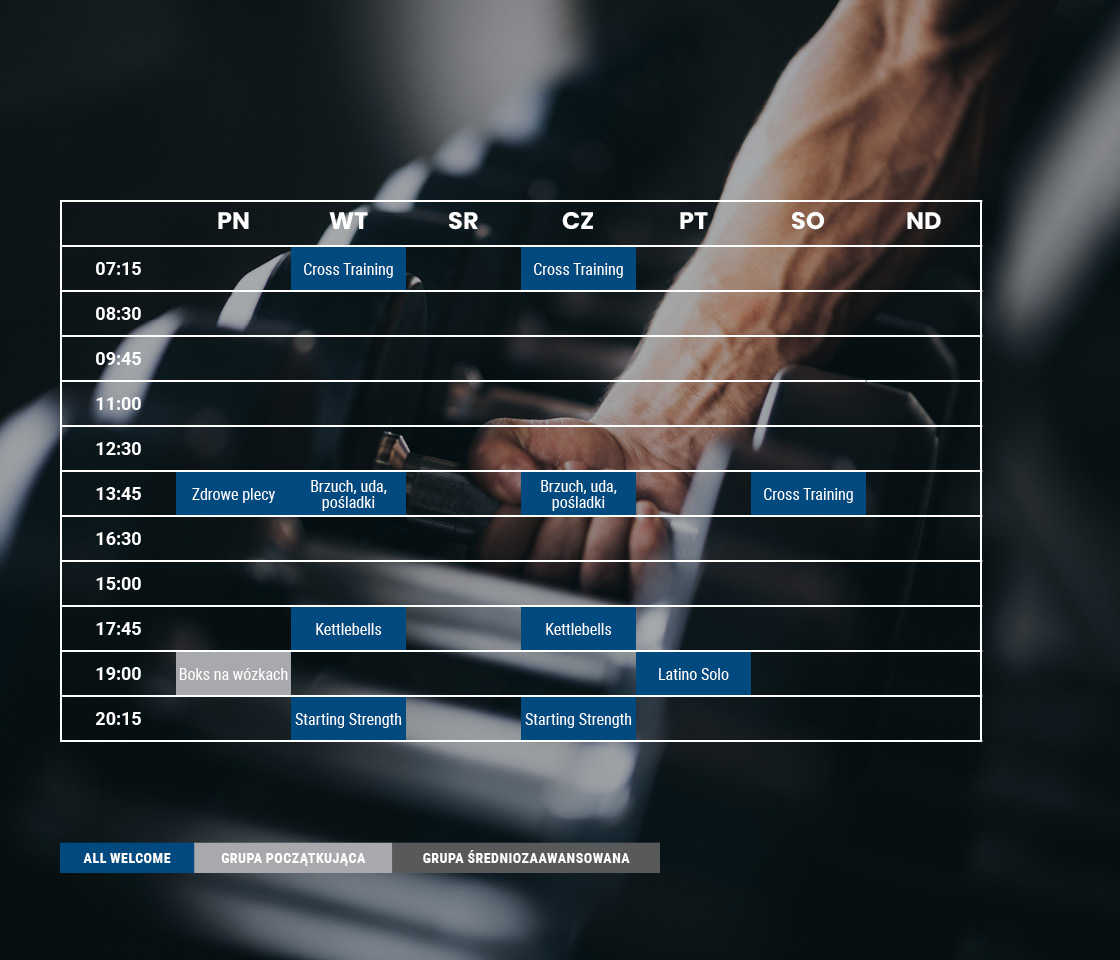
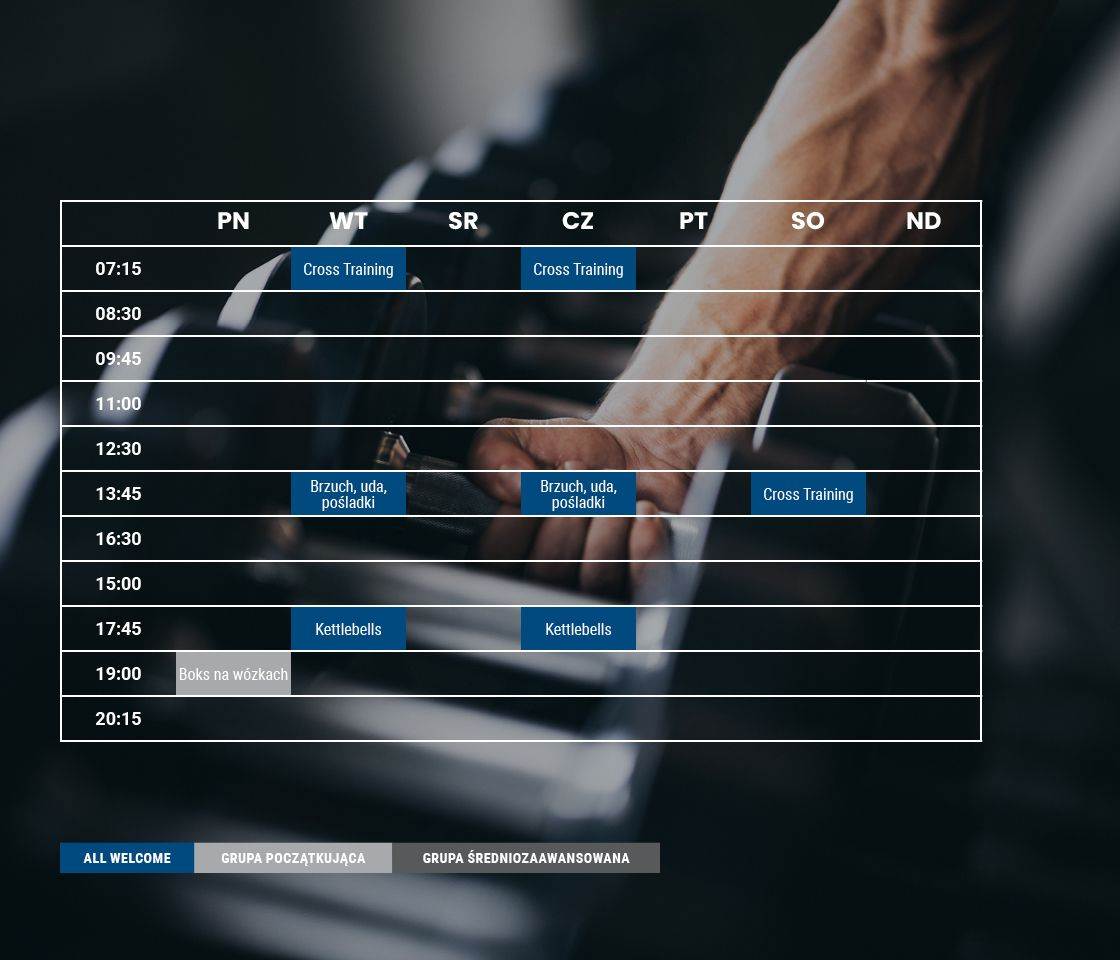
added

diff --git a/src/mixins/items.ts b/src/mixins/items.ts
@@ -439,20 +439,20 @@ export const teamItems: Array<Item> = [
   //     ○ cheerleaders`,
   //     src: "czekaj.jpg",
   //   },
-  {
-    name: "team",
-    title: "Piotr Burzykowski",
-    description: `Tłumacz, trener, terapeuta. 
-    
-    Od najmłodszych lat podróżuję po świecie w poszukiwaniu wiedzy, doświadczeń i nowych smaków. Wierzę, że najszybszym sposobem na poprawę jakości życia każdego człowieka jest zwiększenie jego siły. Specjalizuję się w treningu według metody „Starting Strength”.
-    
-    Po godzinach zajmuję się urban exploration, filozofią, stolarstwem.
-    
-    Prowadzone zajęcia:
-    ○ trening siłowy ze sztangą (Starting Strength)
-    ○ treningi personalne`,
-    src: "piotr.jpg",
-  },
+  // {
+  //   name: "team",
+  //   title: "Piotr Burzykowski",
+  //   description: `Tłumacz, trener, terapeuta.
+
+  //   Od najmłodszych lat podróżuję po świecie w poszukiwaniu wiedzy, doświadczeń i nowych smaków. Wierzę, że najszybszym sposobem na poprawę jakości życia każdego człowieka jest zwiększenie jego siły. Specjalizuję się w treningu według metody „Starting Strength”.
+
+  //   Po godzinach zajmuję się urban exploration, filozofią, stolarstwem.
+
+  //   Prowadzone zajęcia:
+  //   ○ trening siłowy ze sztangą (Starting Strength)
+  //   ○ treningi personalne`,
+  //   src: "piotr.jpg",
+  // },
   {
     name: "team",
     title: "Sandra Woch",
@@ -678,26 +678,26 @@ export const offerItems: Array<Item> = [
 Zajęcia Cross Training prowadzone są przez trenera Marka Rybińskiego`,
     src: "cross2.jpg",
   },
-  {
-    name: "offer",
-    title: "Starting Strength™",
-    description: `Czym jest Starting Strength™?
-    
-    Starting Strength™  jest kompletną metodą treningu siłowego, opracowaną przez trenera Marka Rippetoe.
-    Trening według metody Starting Strength™ świetnie się sprawdza zarówno u nastolatków i dorosłych, którzy pragną zwiększyć swoją sprawność fizyczną jak i chcących poprawić sylwetkę, jak i u seniorów, którzy pragną zachować jak najdłużej autonomię w życiu codziennym. Metoda opiera się na ćwiczeniach wielostawowych, wykonywanych ze sztangą według starannie zaprojektowanego programu treningowego.
+  //   {
+  //     name: "offer",
+  //     title: "Starting Strength™",
+  //     description: `Czym jest Starting Strength™?
 
-    Główne ćwiczenia to:
-○ przysiad ze sztangą
-○ wyciskanie sztangi stojąc
-○ wyciskanie sztangi leżąc
-○ martwy ciąg
+  //     Starting Strength™  jest kompletną metodą treningu siłowego, opracowaną przez trenera Marka Rippetoe.
+  //     Trening według metody Starting Strength™ świetnie się sprawdza zarówno u nastolatków i dorosłych, którzy pragną zwiększyć swoją sprawność fizyczną jak i chcących poprawić sylwetkę, jak i u seniorów, którzy pragną zachować jak najdłużej autonomię w życiu codziennym. Metoda opiera się na ćwiczeniach wielostawowych, wykonywanych ze sztangą według starannie zaprojektowanego programu treningowego.
 
-Zostały one wybrane, ponieważ pozwalają na zwiększenie siły u trenujących szybciej, skuteczniej i w bardziej bezpieczny sposób w porównaniu z innymi zestawami ćwiczeń. Będziesz stawał się silniejszy od samego początku programu, ponieważ na każdym treningu będziemy odpowiednio zwiększać ciężar na sztandze.
-Ale bez obaw! Początkowe ciężary i progresja będą zawsze dostosowane do Twojej kondycji i poziomu siły. W miarę postępów w programie pojawią się nowe ćwiczenia, ale i tak  przysiady, wyciskanie stojąc i leżąc oraz martwe ciągi pozostaną najczęściej wykonywanymi ćwiczeniami.
+  //     Główne ćwiczenia to:
+  // ○ przysiad ze sztangą
+  // ○ wyciskanie sztangi stojąc
+  // ○ wyciskanie sztangi leżąc
+  // ○ martwy ciąg
 
-Zajęcia Starting Strength™ prowadzi u nas trener Piotr Burzykowski`,
-    src: "strength.jpg",
-  },
+  // Zostały one wybrane, ponieważ pozwalają na zwiększenie siły u trenujących szybciej, skuteczniej i w bardziej bezpieczny sposób w porównaniu z innymi zestawami ćwiczeń. Będziesz stawał się silniejszy od samego początku programu, ponieważ na każdym treningu będziemy odpowiednio zwiększać ciężar na sztandze.
+  // Ale bez obaw! Początkowe ciężary i progresja będą zawsze dostosowane do Twojej kondycji i poziomu siły. W miarę postępów w programie pojawią się nowe ćwiczenia, ale i tak  przysiady, wyciskanie stojąc i leżąc oraz martwe ciągi pozostaną najczęściej wykonywanymi ćwiczeniami.
+
+  // Zajęcia Starting Strength™ prowadzi u nas trener Piotr Burzykowski`,
+  //     src: "strength.jpg",
+  //   },
 
   // {
   //   name: "offer",
